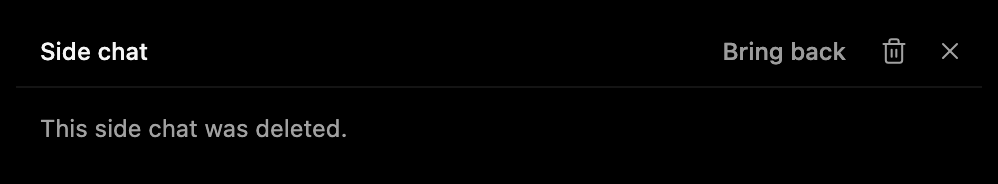
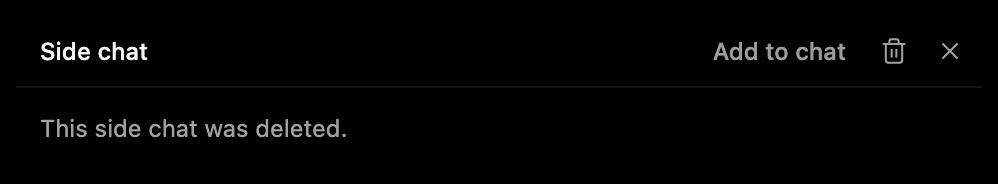
feat(composer): Add to chat and @ reference a side chat from its main thread
T3 #38323 (bb1a66a3a4). The side chat tab's Bring back (`thread.merge_back`)
became Add to chat: it appends the side chat as a thread reference to the main
thread's draft, without moving the caret (SideThreadPane.tsx:99-108 at 5258,
`addThreadContexts` with `insertAtCaret: false`, composerDraftStore.ts:4216-4256).
It waits for the side chat's first message, "Available after the first
message.", since closing an unused side chat deletes it.

The @ menu offers the composer's own side chats that have a message, described
"Side chat" (composerThreadItems.ts:49-82 at 5258). Other threads' side chats
and subagents stay out.

The side chat pane's component reference is regenerated from the 5258 markup,
and the whole-panel reference is recaptured from the 5258 client
(design/reference-5258/62-side-chat-panel, plans/side-chat.json).

Changed region(s): [[0.7144, 0.2174, 0.8697, 0.3533]]

diff --git a/Packages/CandyKit/Sources/Features/SideChats/SideChatPaneView.swift b/Packages/CandyKit/Sources/Features/SideChats/SideChatPaneView.swift
@@ -22,7 +22,7 @@ public final class SideChatHostView: DSView {
     }
 }
 
-/// A side chat tab (SideChatPane.tsx:131-193): a 36pt header with the title, Bring back, Delete and Close
+/// A side chat tab (SideThreadPane.tsx:160-200 at 5258): a 36pt header with the title, Add to chat, Delete and Close
 /// (`h-9 border-b pr-1 pl-3 gap-1`) over the side chat's own chat, or "This side chat was deleted.".
 public final class SideChatPaneView: DSView {
     public static let headerHeight: CGFloat = 36
@@ -30,27 +30,27 @@ public final class SideChatPaneView: DSView {
     public struct State: Equatable {
         /// The side chat's shell title; nil before its shell arrives.
         public var title: String?
-        /// `bringBackBlockedReason` (:61-68), nil when Bring back works.
-        public var bringBackBlockedReason: String?
-        public var bringingBack = false
+        /// `canAddToChat` (SideThreadPane.tsx:99 at 5258, #38323): the side chat has a message. Closing an unused side
+        /// chat deletes it, which would leave the link unreadable.
+        public var canAddToChat = false
         public var canDelete = true
         public var deleting = false
         /// The shell is gone and the snapshot is loaded (:174-176).
         public var deleted = false
-        public init(title: String? = nil, bringBackBlockedReason: String? = nil, bringingBack: Bool = false,
+        public init(title: String? = nil, canAddToChat: Bool = false,
                     canDelete: Bool = true, deleting: Bool = false, deleted: Bool = false) {
-            self.title = title; self.bringBackBlockedReason = bringBackBlockedReason; self.bringingBack = bringingBack
+            self.title = title; self.canAddToChat = canAddToChat
             self.canDelete = canDelete; self.deleting = deleting; self.deleted = deleted
         }
     }
 
     public let threadId: ThreadId
-    public var onBringBack: (() -> Void)?
+    public var onAddToChat: (() -> Void)?
     public var onDelete: (() -> Void)?
     public var onClose: (() -> Void)?
 
     let titleLabel = LabelView("Side chat", font: DSFont.ui(12, weight: .medium))
-    let bringBack = ButtonView("Bring back", variant: .ghost, size: .xs)
+    let addToChat = ButtonView("Add to chat", variant: .ghost, size: .xs)
     let delete = ButtonView(nil, icon: .trash2, variant: .ghost, size: .iconXs)
     let close = ButtonView(nil, icon: .x, variant: .ghost, size: .iconXs)
     private let deletedLabel = LabelView("This side chat was deleted.", font: DSFont.ui(12))
@@ -73,9 +73,9 @@ public final class SideChatPaneView: DSView {
         deletedLabel.lineHeight = 16
         deletedLabel.color = Themed.color(\.mutedForeground)
         deletedLabel.isHidden = true
-        bringBack.action = { [weak self] in
-            guard let self, self.state.bringBackBlockedReason == nil, !self.state.bringingBack else { return }
-            self.onBringBack?()
+        addToChat.action = { [weak self] in
+            guard let self, self.state.canAddToChat else { return }
+            self.onAddToChat?()
         }
         delete.action = { [weak self] in self?.onDelete?() }
         close.action = { [weak self] in self?.onClose?() }
@@ -83,7 +83,7 @@ public final class SideChatPaneView: DSView {
         close.setAccessibilityLabel("Close side chat")
         border.actions = ["frame": NSNull(), "bounds": NSNull(), "position": NSNull()]
         layer?.addSublayer(border)
-        [titleLabel, bringBack, delete, close, deletedLabel].forEach(addSubview)
+        [titleLabel, addToChat, delete, close, deletedLabel].forEach(addSubview)
         setAccessibilityElement(true)
         setAccessibilityRole(.group)
         setAccessibilityLabel("Side chat")
@@ -96,9 +96,8 @@ public final class SideChatPaneView: DSView {
         self.state = state
         titleLabel.text = state.title ?? "Side chat"
         // `aria-disabled`: still hoverable with its tooltip, at 64% (button.tsx:9).
-        let blocked = state.bringBackBlockedReason != nil || state.bringingBack
-        bringBack.alphaValue = blocked ? 0.64 : 1
-        bringBack.setTooltip(state.bringBackBlockedReason ?? "Adds this side chat to the main thread's next message.")
+        addToChat.alphaValue = state.canAddToChat ? 1 : 0.64
+        addToChat.setTooltip(state.canAddToChat ? "Adds this side chat to the main thread's next message." : "Available after the first message.")
         delete.isEnabled = state.canDelete && !state.deleting && !state.deleted
         deletedLabel.isHidden = !state.deleted
         content?.isHidden = state.deleted
@@ -113,9 +112,9 @@ public final class SideChatPaneView: DSView {
         close.frame = NSRect(x: x, y: (h - 1 - 24) / 2, width: 24, height: 24)
         x -= 4 + 24
         delete.frame = NSRect(x: x, y: (h - 1 - 24) / 2, width: 24, height: 24)
-        let bw = bringBack.intrinsicContentSize.width
+        let bw = addToChat.intrinsicContentSize.width
         x -= 4 + bw
-        bringBack.frame = NSRect(x: x, y: (h - 1 - 24) / 2, width: bw, height: 24)
+        addToChat.frame = NSRect(x: x, y: (h - 1 - 24) / 2, width: bw, height: 24)
         titleLabel.frame = NSRect(x: 12, y: (h - 1 - 16) / 2, width: max(0, x - 4 - 12), height: 16)
         border.frame = CGRect(x: 0, y: h - 1, width: bounds.width, height: 1)
         deletedLabel.frame = NSRect(x: 12, y: h + 12, width: max(0, bounds.width - 24), height: 16)
@@ -145,7 +144,7 @@ public final class SideChatPaneView: DSView {
     }
 
     func clearHover() {
-        for button in [bringBack, delete, close] where button.state.hovered || button.state.active {
+        for button in [addToChat, delete, close] where button.state.hovered || button.state.active {
             var state = button.state
             state.hovered = false
             state.active = false

diff --git a/App/Sources/SideChatController.swift b/App/Sources/SideChatController.swift
@@ -46,7 +46,6 @@ final class SideChatController {
         /// The side chat's composer chords and F6, run while focus is in its pane.
         let shortcuts = Shortcuts()
         var projection: ThreadProjection?
-        var bringingBack = false
         var deleting = false
         init(id: ThreadId) {
             self.id = id
@@ -211,7 +210,7 @@ final class SideChatController {
         s.pane.content = s.chat
         s.pane.onClose = { [weak self] in self?.panel.mutatePanel { $0.close("side-chat:" + local.rawValue) } }
         s.pane.onDelete = { [weak self] in self?.confirmDelete(id) }
-        s.pane.onBringBack = { [weak self] in self?.bringBack(id) }
+        s.pane.onAddToChat = { [weak self] in self?.addToChat(id) }
         let chatComposer = ComposerController(panel: s.chat, sidebar: sidebar, environments: environments, embeddedIn: composer)
         s.composer = chatComposer
         chatComposer.showThread(id)
@@ -240,7 +239,7 @@ final class SideChatController {
         syncPane()
     }
 
-    /// The pane's header and model controls from the side chat's and its parent's shells (SideChatPane.tsx:61-68).
+    /// The pane's header and model controls from the side chat's and its parent's shells (SideThreadPane.tsx:99 at 5258).
     private func syncPane() {
         guard let s = shown, let env = s.id.environmentId else { return }
         let sideChat = shell(s.id)
@@ -249,32 +248,16 @@ final class SideChatController {
         // and the parent's title, which opens nothing since the parent is the view around it.
         s.contextDivider.parentTitle = parent?.title ?? "Parent thread"
         let canOperate = environments.canOperate(env)
-        let mergeRun = s.projection.flatMap(ThreadRelationships.latestMergeBackRun)
-        let parentActive = parent.map { [.preparing, .queued, .starting, .running, .waiting].contains($0.activityRunStatus ?? $0.status) } ?? false
-        let blocked: String? = !canOperate ? "This connection cannot change threads."
-            : parentActive ? "Available when the main thread is idle."
-            : mergeRun == nil ? "Available after a finished reply." : nil
-        s.pane.apply(.init(title: sideChat?.title, bringBackBlockedReason: blocked, bringingBack: s.bringingBack,
+        s.pane.apply(.init(title: sideChat?.title, canAddToChat: sideChat?.latestUserMessageAt != nil,
                            canDelete: canOperate && sideChat != nil, deleting: s.deleting,
                            deleted: sideChat == nil && sidebar?.snapshot != nil))
     }
 
-    /// `bringBack` (SideChatPane.tsx:70-92): `thread.merge_back` of the latest finished run into the parent.
-    private func bringBack(_ id: ThreadId) {
-        guard let s = shown, s.id == id, !s.bringingBack, let parent = parentId(),
-              let run = s.projection.flatMap(ThreadRelationships.latestMergeBackRun)?.id else { return }
-        s.bringingBack = true
-        syncPane()
-        Task { [weak self] in
-            do {
-                _ = try await self?.environments.dispatch(parent, ThreadRelationshipCommands.mergeBack(source: id.localId, target: parent.localId, runId: run))
-                self?.toast("Brought back", message: "The main thread gets this side chat with your next message there.", kind: .success)
-            } catch {
-                self?.toast("Could not bring back the side chat", error)
-            }
-            s.bringingBack = false
-            self?.syncPane()
-        }
+    /// `addToChat` (SideThreadPane.tsx:99-108 at 5258, #38323): the side chat as a thread reference in the main thread's
+    /// draft. It replaced Bring back's `thread.merge_back`.
+    private func addToChat(_ id: ThreadId) {
+        guard let s = shown, s.id == id, let sideChat = shell(id), sideChat.latestUserMessageAt != nil else { return }
+        composer?.addSideChatContext(id, title: sideChat.title)
     }
 
     /// `deleteSideChat` (SideChatPane.tsx:94-129): confirms when `confirmThreadDelete` is on, deletes, closes the tab.

diff --git a/App/Sources/ComposerController.swift b/App/Sources/ComposerController.swift
@@ -4028,17 +4028,23 @@ extension ComposerController {
     private var menuThreads: [ComposerMenus.ThreadCandidate] {
         guard let env = targetEnvironmentId else { return [] }
         let linked = composerLinkedNames
+        // composerThreadItems.ts:49-54 at 5258 (#38323): this thread's own side chats, once they have a message, since
+        // closing an unused one deletes it.
+        let parent: String? = if case .thread(let id) = target { id.localId.rawValue } else { nil }
+        func ownSideChat(_ t: ThreadShell, owner: String) -> Bool {
+            t.lineage.sideChat == true && owner == env && parent != nil && t.lineage.parentThreadId?.rawValue == parent && t.latestUserMessageAt != nil
+        }
         var candidates = (sidebar?.snapshot?.threads ?? []).compactMap { t -> ComposerMenus.ThreadCandidate? in
             guard let owner = t.id.environmentId, owner == env || linked[owner] != nil else { return nil }
             return .init(id: t.id.rawValue, title: t.title, updatedAt: t.updatedAt.raw, archived: t.archivedAt != nil,
-                         machine: owner == env ? nil : linked[owner], isSubagent: !t.lineage.isListed)
+                         machine: owner == env ? nil : linked[owner], isSubagent: !t.lineage.isListed, isOwnSideChat: ownSideChat(t, owner: owner))
         }
         let known = Set(candidates.map(\.id))
         if let matches = menuState.threadMatches, matches.environment == env {
             candidates += matches.threads.filter { !known.contains($0.thread.id.scoped(to: $0.environmentId).rawValue) }.map { m in
                 .init(id: m.thread.id.scoped(to: m.environmentId).rawValue, title: m.thread.title, updatedAt: m.thread.updatedAt.raw,
                       archived: m.thread.archivedAt != nil, machine: m.environmentId == env ? nil : linked[m.environmentId],
-                      isSubagent: !m.thread.lineage.isListed)
+                      isSubagent: !m.thread.lineage.isListed, isOwnSideChat: ownSideChat(m.thread, owner: m.environmentId))
             }
         }
         return candidates
@@ -4947,6 +4953,29 @@ extension ComposerController {
         composer.insertAtCaret(references.joined(separator: " ") + " ")
         composer.focus()
         return true
+    }
+
+    /// A side chat's "Add to chat" (SideThreadPane.tsx:99-108 at 5258, #38323): the side chat's thread record joins
+    /// this thread's draft, its reference appended to the end of the prompt (`addThreadContexts` with
+    /// `insertAtCaret: false`, composerDraftStore.ts:4216-4256; `inlineContextReferenceReplacement`,
+    /// composerContextReferences.ts:44-57). Nothing moves the caret or the focus.
+    func addSideChatContext(_ id: ThreadId, title: String) {
+        guard case .thread(let parent) = target, let env = parent.environmentId, id.environmentId == env else { return }
+        let local = id.localId.rawValue
+        let record = ComposerContext.threadRecord(threadId: local, title: title, environmentId: env)
+        // The composer shows the draft unless a queued edit or an open question holds it; then only the saved draft changes.
+        let showsDraft = queuedEdit == nil && questionRequestId == nil
+        if showsDraft { flushPrompt() }
+        let text = prompts[parent.rawValue] ?? ""
+        guard let contextId = record["contextId"]?.stringValue, !ComposerContext.referencedIds(text).contains(contextId) else { return }
+        menuState.records[contextId] = record
+        let lead = text.last.map { !$0.isWhitespace } ?? false ? " " : ""
+        prompts[parent.rawValue] = text + lead + ComposerContext.reference(ComposerContext.threadReference(threadId: local, title: title)) + " "
+        if showsDraft {
+            composer.text = prompts[parent.rawValue] ?? ""
+            pickers.prompt = composer.text
+        }
+        scheduleSave()
     }
 
     /// "Add to chat" from a terminal (`addTerminalContext`, ChatComposer.tsx:6502-6533): a new

diff --git a/Packages/CandyKit/Tests/FeaturesTests/SideChatFidelityTests.swift b/Packages/CandyKit/Tests/FeaturesTests/SideChatFidelityTests.swift
@@ -6,7 +6,7 @@ import T3Store
 @testable import Features
 
 /// The side chat tab and its pane's header against T3's 4928 full-window capture of a side chat before its first
-/// question (design/reference-4928/62-side-chat-panel, SideChatPane.tsx:131-171, RightPanelTabs.tsx:738-760). The body
+/// question (design/reference-5258/62-side-chat-panel, SideChatPane.tsx:131-171, RightPanelTabs.tsx:738-760). The body
 /// below the header is the embedded thread panel, covered by the thread's own suites. Coordinates are CSS points.
 @MainActor @Suite(.fidelity)
 struct SideChatFidelityTests {
@@ -37,14 +37,14 @@ struct SideChatFidelityTests {
         var cases: [(String, Double)] = []
         for theme in ["light", "dark"] {
             let rect = crop.rect
-            let full = try #require(NSBitmapImageRep(data: Data(contentsOf: SidebarFidelityTests.repo.appendingPathComponent("design/reference-4928/62-side-chat-panel.\(theme).png"))))
+            let full = try #require(NSBitmapImageRep(data: Data(contentsOf: SidebarFidelityTests.repo.appendingPathComponent("design/reference-5258/62-side-chat-panel.\(theme).png"))))
             let ref = NSBitmapImageRep(cgImage: full.cgImage!.cropping(to: CGRect(x: rect.minX * 2, y: rect.minY * 2, width: rect.width * 2, height: rect.height * 2))!)
             let canvas = SidebarSearchFidelityTests.Canvas(frame: NSRect(origin: .zero, size: rect.size))
             // The whole panel, 484 wide from the window's right edge, placed so the crop shows.
             let panel = RightPanelView(frame: NSRect(x: 616 - rect.minX, y: -rect.minY, width: 484, height: 780))
             let pane = SideChatPaneView(threadId: "side")
-            // Before its first reply Bring back is `aria-disabled` (SideChatPane.tsx:61-68).
-            pane.apply(.init(bringBackBlockedReason: "Available after a finished reply."))
+            // Before its first message Add to chat is `aria-disabled` (SideThreadPane.tsx:99 at 5258).
+            pane.apply(.init())
             panel.sideChatHost.show(pane)
             panel.apply(RightPanelState(isOpen: true, activeSurfaceId: "side-chat:side", surfaces: [.sideChat("side")]))
             canvas.addSubview(panel)
@@ -72,7 +72,7 @@ struct SideChatFidelityTests {
                 let size = NSSize(width: CGFloat(ref.pixelsWide) / 2, height: CGFloat(ref.pixelsHigh) / 2)
                 let canvas = SidebarSearchFidelityTests.Canvas(frame: NSRect(origin: .zero, size: size))
                 let pane = SideChatPaneView(threadId: "side")
-                pane.apply(.init(title: native["title"], bringBackBlockedReason: native["blocked"], deleted: native["deleted"] == "yes"))
+                pane.apply(.init(title: native["title"], canAddToChat: native["blocked"] == nil, deleted: native["deleted"] == "yes"))
                 // The harness pads each case by 8pt.
                 pane.frame = canvas.bounds.insetBy(dx: 8, dy: 8)
                 canvas.addSubview(pane)

diff --git a/Packages/CandyKit/Tests/FeaturesTests/SideChatTests.swift b/Packages/CandyKit/Tests/FeaturesTests/SideChatTests.swift
@@ -41,26 +41,27 @@ struct SideChatTests {
         // `h-9 pr-1 pl-3 gap-1`: close and delete are 24pt icon-xs buttons at the right.
         #expect(pane.close.frame == NSRect(x: 482 - 4 - 24, y: 5.5, width: 24, height: 24))
         #expect(pane.delete.frame.maxX == pane.close.frame.minX - 4)
-        #expect(pane.bringBack.frame.maxX == pane.delete.frame.minX - 4)
+        #expect(pane.addToChat.frame.maxX == pane.delete.frame.minX - 4)
         #expect(pane.titleLabel.frame.minX == 12 && pane.titleLabel.text == "Side chat")
-        pane.apply(.init(title: "Why is the sky blue", bringBackBlockedReason: "Available after a finished reply."))
+        // SideThreadPane.tsx:99, 166-180 at 5258 (#38323): Add to chat waits for the side chat's first message.
+        pane.apply(.init(title: "Why is the sky blue"))
         #expect(pane.titleLabel.text == "Why is the sky blue")
-        #expect(pane.bringBack.alphaValue == 0.64 && pane.bringBack.currentTooltip == "Available after a finished reply.")
-        pane.apply(.init(title: "x"))
-        #expect(pane.bringBack.alphaValue == 1 && pane.bringBack.currentTooltip == "Adds this side chat to the main thread's next message.")
+        #expect(pane.addToChat.alphaValue == 0.64 && pane.addToChat.currentTooltip == "Available after the first message.")
+        pane.apply(.init(title: "x", canAddToChat: true))
+        #expect(pane.addToChat.alphaValue == 1 && pane.addToChat.currentTooltip == "Adds this side chat to the main thread's next message.")
         pane.apply(.init(deleted: true))
         #expect(!pane.delete.isEnabled)
     }
 
-    @Test func blockedBringBackDoesNothing() {
+    @Test func addToChatWaitsForAMessage() {
         let pane = SideChatPaneView(threadId: "side")
         var calls = 0
-        pane.onBringBack = { calls += 1 }
-        pane.apply(.init(bringBackBlockedReason: "Available when the main thread is idle."))
-        pane.bringBack.action?()
-        #expect(calls == 0)
+        pane.onAddToChat = { calls += 1 }
         pane.apply(.init())
-        pane.bringBack.action?()
+        pane.addToChat.action?()
+        #expect(calls == 0)
+        pane.apply(.init(canAddToChat: true))
+        pane.addToChat.action?()
         #expect(calls == 1)
     }
 
@@ -83,7 +84,7 @@ struct SideChatTests {
         let pane = SideChatPaneView(threadId: "side")
         host.show(pane)
         host.layoutSubtreeIfNeeded()
-        let button = [pane.bringBack, pane.delete, pane.close][index]
+        let button = [pane.addToChat, pane.delete, pane.close][index]
         let resting = try pixels(button)
         var hovered = button.state
         hovered.hovered = true

diff --git a/Packages/CandyKit/Sources/Features/Composer/ComposerMenus.swift b/Packages/CandyKit/Sources/Features/Composer/ComposerMenus.swift
@@ -393,9 +393,13 @@ public enum ComposerMenus {
         public var id: String, title: String, updatedAt: String, archived: Bool
         public var machine: String?
         public var isSubagent: Bool
-        public init(id: String, title: String, updatedAt: String, archived: Bool, machine: String? = nil, isSubagent: Bool = false) {
+        /// A side chat of the composer's own thread with a message in it (`isOwnSideChat`, composerThreadItems.ts:49-54
+        /// at 5258, #38323): offered although side chats are otherwise unlisted, and described "Side chat".
+        public var isOwnSideChat: Bool
+        public init(id: String, title: String, updatedAt: String, archived: Bool, machine: String? = nil, isSubagent: Bool = false,
+                    isOwnSideChat: Bool = false) {
             self.id = id; self.title = title; self.updatedAt = updatedAt; self.archived = archived
-            self.machine = machine; self.isSubagent = isSubagent
+            self.machine = machine; self.isSubagent = isSubagent; self.isOwnSideChat = isOwnSideChat
         }
     }
 
@@ -405,10 +409,11 @@ public enum ComposerMenus {
     public static func threadItems(query: String, threads: [ThreadCandidate], excluding: String?, browse: Bool = false) -> [ComposerMenuItem] {
         let q = query.trimmingCharacters(in: .whitespacesAndNewlines).lowercased()
         guard !q.isEmpty || browse else { return [] }
-        return threads.filter { $0.id != excluding && !$0.archived && !$0.isSubagent && (q.isEmpty || $0.title.lowercased().contains(q)) }
+        return threads.filter { $0.id != excluding && !$0.archived && (!$0.isSubagent || $0.isOwnSideChat) && (q.isEmpty || $0.title.lowercased().contains(q)) }
             .sorted { $0.updatedAt > $1.updatedAt }
             .prefix(threadResultLimit)
-            .map { ComposerMenuItem(id: "thread:\($0.id)", kind: .thread(id: $0.id, title: $0.title), label: $0.title, description: $0.machine.map { "Thread on \($0)" } ?? "Thread") }
+            .map { ComposerMenuItem(id: "thread:\($0.id)", kind: .thread(id: $0.id, title: $0.title), label: $0.title,
+                                    description: $0.isOwnSideChat ? "Side chat" : $0.machine.map { "Thread on \($0)" } ?? "Thread") }
     }
 
     public struct EnvironmentCandidate: Sendable {

diff --git a/Packages/CandyKit/Tests/FeaturesTests/ComposerMenusTests.swift b/Packages/CandyKit/Tests/FeaturesTests/ComposerMenusTests.swift
@@ -86,6 +86,17 @@ struct ComposerMenusTests {
         #expect(items.first.map(ComposerMenus.replacement)?.contains("thread_b") == true)
     }
 
+    /// composerThreadItems.ts:49-82 at 5258 (#38323): the composer's own side chat is offered as "Side chat"; other
+    /// side chats and subagents stay out.
+    @Test func ownSideChatIsOfferedAsSideChat() {
+        let threads: [ComposerMenus.ThreadCandidate] = [
+            .init(id: "here:side", title: "Deploy question", updatedAt: "2", archived: false, isSubagent: true, isOwnSideChat: true),
+            .init(id: "here:other", title: "Deploy other side chat", updatedAt: "3", archived: false, isSubagent: true),
+        ]
+        let items = ComposerMenus.threadItems(query: "deploy", threads: threads, excluding: "here:main")
+        #expect(items.map(\.id) == ["thread:here:side"] && items.first?.description == "Side chat")
+    }
+
     @Test func copyThreadWritesAnEnvironmentAwareChipWhilePRsCopyURLs() throws {
         let pasteboard = NSPasteboard.withUniqueName()
         defer { pasteboard.releaseGlobally() }

diff --git a/scripts/gen-side-chat-spec.py b/scripts/gen-side-chat-spec.py
@@ -1,5 +1,5 @@
 """Writes design/component-reference/side-chat-pane.json for scripts/component-reference: a side chat tab's header
-(SideChatPane.tsx:131-171) with Bring back ready or aria-disabled before a finished reply, a long title, and the
+(SideThreadPane.tsx:160-200 at 5258) with Add to chat ready or aria-disabled before the first message, a long title, and the
 deleted state (:172-177). Buttons come from the overlays generator and lucide icons from the run-on generator,
 through the git generator.
 Usage: /usr/bin/python3 -I scripts/gen-side-chat-spec.py
@@ -17,7 +17,7 @@ exec(load("gen-git-spec.py", "def panel_label"), g)
 lucide, btn = g["lucide"], g["btn"]
 
 def header(title, blocked):
-    bring = btn("ghost", "xs", "Bring back")
+    bring = btn("ghost", "xs", "Add to chat")
     if blocked:
         bring = bring.replace("<button ", '<button aria-disabled="true" ', 1)
     trash = btn("ghost", "icon-xs", lucide("trash-2", "")).replace("<button ", '<button aria-label="Delete side chat" ', 1)
@@ -30,13 +30,13 @@ def pane(title, blocked, deleted=False):
     return f'<div data-side-chat-pane class="flex h-full min-h-0 flex-col">{header(title, blocked)}{body}</div>'
 
 CASES = [
-    ("before-reply", pane("Side chat", True), {"title": "Side chat", "blocked": "Available after a finished reply."}),
+    ("before-reply", pane("Side chat", True), {"title": "Side chat", "blocked": "Available after the first message."}),
     ("ready", pane("Why is the sky blue", False), {"title": "Why is the sky blue"}),
     ("long-title", pane("Explain the difference between the queue and steer modes in the composer and when each one applies", False),
      {"title": "Explain the difference between the queue and steer modes in the composer and when each one applies"}),
-    ("deleted", pane("Side chat", True, deleted=True), {"title": "Side chat", "blocked": "Available after a finished reply.", "deleted": "yes"}),
+    ("deleted", pane("Side chat", True, deleted=True), {"title": "Side chat", "blocked": "Available after the first message.", "deleted": "yes"}),
 ]
-spec = {"component": "side-chat-pane", "source": "apps/web/src/components/chat/SideChatPane.tsx",
+spec = {"component": "side-chat-pane", "source": "apps/web/src/components/chat/SideThreadPane.tsx",
         "cases": [{"name": n, "html": h, "wrapperStyle": "display:block;width:483px", "native": native} for n, h, native in CASES],
         "states": ["rest"], "themes": ["light", "dark"]}
 with open(os.path.join(ROOT, "design/component-reference/side-chat-pane.json"), "w") as out:
